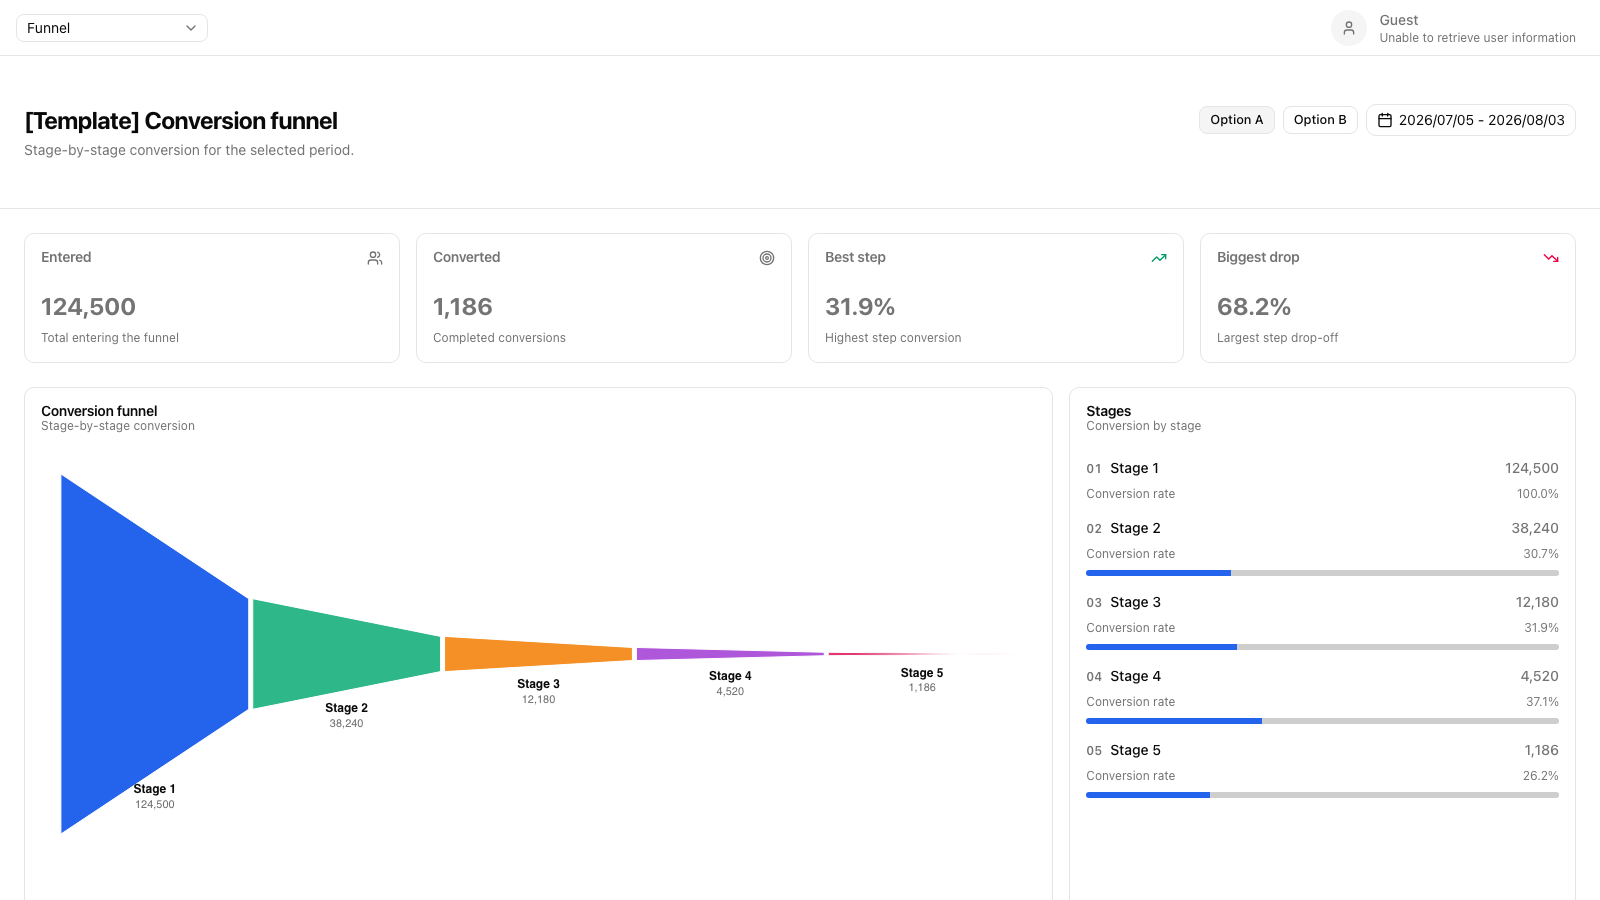
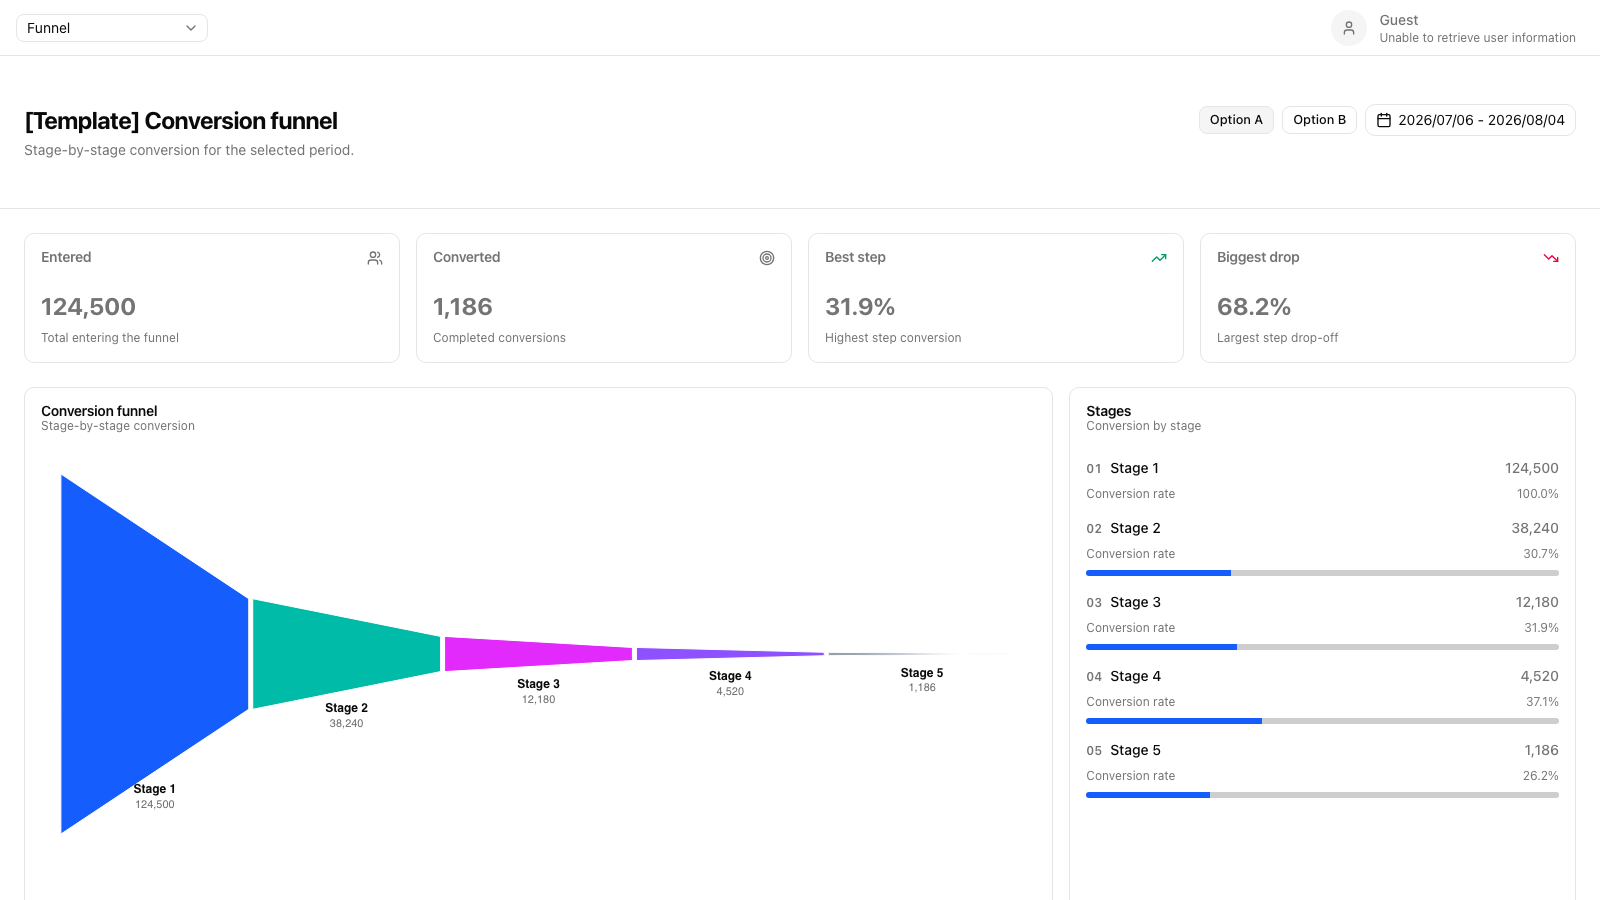
feat(vantage): ship the blue chart preset by default
The framework's `theme.css` defaults (blue / emerald / orange / purple /
pink) only stay coherent for two series — the third one brings in orange
and a five-segment donut comes out as a rainbow. That is what a real
project looks like, while the gallery previews — shot from a base app
with no preset — only ever showed the first two tokens, so the previews
promised a cool palette the generated project never delivered.

Bake `blue` into `vantage/src/styles.css` as the same fenced block the
`chart` command writes, so `init` and the previews start from one
palette. `base-template/` is an rsync of `../vantage/`, so this single
file is the whole source change; `init --chart <preset>` and `chart
<preset>` still replace the block in place rather than stacking.

Re-shoot the previews of all ten chart-bearing templates to match
(`blank` / `blank-ja` have no charts and are unchanged). Verified in a
production build that Tailwind emits all ten referenced `--color-*`
variables — the palette references survive tree-shaking.

Claude-Session: https://claude.ai/code/session_01VKJwG4D8wCQj9K4THQaLwg

diff --git a/vantage/src/styles.css b/vantage/src/styles.css
@@ -16,3 +16,22 @@
   /* --primary: hsl(221 83% 53%); */
   /* --radius: 0.625rem; */
 }
+
+/* vantage-template:chart-preset — regenerated by `chart`; edits here are lost */
+:root {
+  --chart-1: var(--color-blue-600);
+  --chart-2: var(--color-teal-500);
+  --chart-3: var(--color-fuchsia-500);
+  --chart-4: var(--color-violet-500);
+  --chart-5: var(--color-gray-400);
+}
+
+.dark,
+[data-theme="dark"] {
+  --chart-1: var(--color-blue-400);
+  --chart-2: var(--color-teal-400);
+  --chart-3: var(--color-fuchsia-400);
+  --chart-4: var(--color-violet-400);
+  --chart-5: var(--color-gray-500);
+}
+/* vantage-template:chart-preset:end */

diff --git a/vantage-template/CLAUDE.md b/vantage-template/CLAUDE.md
@@ -178,6 +178,8 @@ Vantage 側はギャラリーで欠けた枠にならないよう撮る）。初
 
 **このコマンドは `@squadbase/vantage` v0.2.1 以上が前提**（v0.2.2 以上を推奨）。v0.2.0 までの `EChart` は薄いラッパーでトークンを読まず、書き換えてもチャートの配色は 1 ピクセルも変わらなかった（そのため一度削除した）。v0.2.1 で `EChart` が init 時に `getComputedStyle` で `--chart-1..5`（系列色）と文字色/境界色トークン（軸・凡例・ツールチップ）を解決し、`class` / `style` / `data-theme` の変化と `prefers-color-scheme` を MutationObserver で追うようになったため、プリセットが実際に効くようになった。v0.2.2 でスタイルシート自体の差し替えも監視対象に入った。
 
+- **ベーステンプレートは `blue` を焼き込んで出荷する。** `../vantage/src/styles.css` にマーカーブロックが入っており、`sync-base` 経由で `base-template/` に載る。つまり `init` した時点で `--chart-*` は `blue`（`blue-600` / `teal-500` / `fuchsia-500` / `violet-500` / `gray-400`）であって、フレームワークの `theme.css` の既定値（青・エメラルド・橙・紫・桃）ではない。`ui-templates/*/preview-*.png` も同じ状態で撮っている — **`../vantage/src/styles.css` のプリセットを差し替えたら全テンプレのプレビューを撮り直すこと**（`npm run screenshot`）。撮り直さないとギャラリーの見た目と実際に生成されるプロジェクトの配色がズレる。
+- `init --chart <preset>` / `chart <preset>` は焼き込み済みのブロックをマーカーごと差し替えるので、既定が `blue` でも他プリセットへの切り替えは今までどおり効く（積み上がらない）。
 - 各プリセットは `:root` と `.dark, [data-theme="dark"]` の両方を定義する（フレームワークの `theme.css` と同じセレクタ）。片方だけだとダークモードで既定に落ちる。
 - **`dev` 中の適用も v0.2.2 以降はリロード不要。** `EChart` が `document.head` のスタイルシート変化（`<style>` / `<link>` の追加・差し替え・`href` / `media` / `disabled` の変化）も監視するようになり、Vite が CSS だけ差し替える HMR でも読み直す。トークンの実値が変わった時だけ再描画するので、無関係な CSS 更新でチラつくこともない。v0.2.1 では HMR が拾われず「DOM のトークンは変わっているのにチャートだけ前の色」になっていた。
 - 個別のチャートだけ配色を変えたいときは `EChartsOption` の `color` を渡す。option はテーマより優先され、軸まわりのトークン追従は残る。

diff --git a/vantage-template/README.md b/vantage-template/README.md
@@ -56,6 +56,8 @@ npx @squadbase/vantage-template add funnel --force      # Overwrite existing fil
 
 Switch the chart color preset. Rewrites a marked block of `--chart-1`–`--chart-5` inside the project's `styles.css` (under `src/` when that layout is in use), leaving any other overrides in that file intact. Re-running replaces the block rather than stacking.
 
+A new project starts on the `blue` preset — the base template ships that block already written, so `init` and the gallery previews show the same colors. This command swaps it for another preset.
+
 ```bash
 npx @squadbase/vantage-template chart ocean
 npx @squadbase/vantage-template chart forest --dry-run
